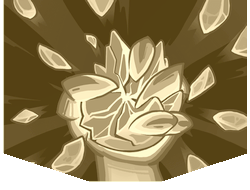
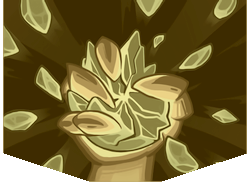
Two new Yin / Yang cards, Light of Your Life buff, new card art edits.
With the Syncretics being pushed to uncommon, there's a renewed need for
Yin and Yang sources at Common. Said rarity's also rather light on deck
manipulation, despite it being a core theme for the Administrix,
so here are two experimental cards fulfilling both needs:

 * Funerary Rites: A 1(0)-cost common skill.
   Discard 1 card. Put a card from your Discard Pile on top of your Draw Pile.
   Gain 4 Yang.

 * Trick of the Light: A 1 cost common attack.
   Deal 8 damage. Discard the top Plot card in your draw pile.
   Gain 4 Yin. Exhaust (not).

To match the above new cycle and let it not mirror Shadow Play as much,
Light of Your Life no longer exhausts at base and the upgrade now
makes it cost 0, which should make it far more pickable without being
too overbearing. The Common base might be a bit strong even for a card set
meant to counter Ascension 17+ and the Heart, though...

Card art edits updates here: Reach to Heaven, Unstable Vigor, Mix of Mercury.

diff --git a/src/main/java/administrix/cards/common/skill/FuneraryRites.java b/src/main/java/administrix/cards/common/skill/FuneraryRites.java
@@ -1,59 +1,57 @@
 package administrix.cards.common.skill;
 
+import administrix.AdministrixMod;
 import administrix.actions.TransposeAction;
 import administrix.cards.AbstractAdministrixCard;
-import basemod.abstracts.CustomCard;
+import administrix.patches.AbstractCardEnum;
+import administrix.powers.YangPower;
+import administrix.powers.YinPower;
 import com.badlogic.gdx.graphics.Color;
 import com.megacrit.cardcrawl.actions.animations.VFXAction;
 import com.megacrit.cardcrawl.actions.common.ApplyPowerAction;
+import com.megacrit.cardcrawl.actions.common.DiscardAction;
 import com.megacrit.cardcrawl.actions.common.DrawCardAction;
+import com.megacrit.cardcrawl.actions.unique.DiscardPileToTopOfDeckAction;
 import com.megacrit.cardcrawl.cards.AbstractCard;
 import com.megacrit.cardcrawl.characters.AbstractPlayer;
 import com.megacrit.cardcrawl.core.CardCrawlGame;
 import com.megacrit.cardcrawl.dungeons.AbstractDungeon;
 import com.megacrit.cardcrawl.localization.CardStrings;
 import com.megacrit.cardcrawl.monsters.AbstractMonster;
-import administrix.AdministrixMod;
-import administrix.patches.AbstractCardEnum;
-import administrix.powers.YangPower;
 import com.megacrit.cardcrawl.vfx.BorderLongFlashEffect;
 
-public class LightOfYourLife extends AbstractAdministrixCard
+public class FuneraryRites extends AbstractAdministrixCard
 {
-    public static final String ID = "AdministrixMod:LightOfYourLife";
-    public static final String NAME = "Light of Your Life";
+    public static final String ID = "AdministrixMod:FuneraryRites";
+    public static final String NAME = "Funerary Rites";
     public static final CardStrings CARD_STRINGS = CardCrawlGame.languagePack.getCardStrings(ID);
     private static final int COST = 1;
-    private static final int UPGRADE_COST = 1;
-    private static final int TRANSPOSE_AMOUNT = 0;
-    private static final int DRAW_AMOUNT = 1;
-    private static final int YANG_AMOUNT = 4;
+    private static final int UPGRADE_COST = 0;
+    private static final int DISCARD_AMOUNT = 1;
+    private static final int YIN_AMOUNT = 4;
     private static final CardRarity rarity = CardRarity.COMMON;
     private static final CardTarget target = CardTarget.SELF;
 
-    public LightOfYourLife() {
-        super(ID, CARD_STRINGS.NAME, AdministrixMod.LIGHT_OF_YOUR_LIFE, COST,
+    public FuneraryRites() {
+        super(ID, CARD_STRINGS.NAME, AdministrixMod.FUENRARY_RITES, COST,
                 CARD_STRINGS.DESCRIPTION,
                 CardType.SKILL, AbstractCardEnum.LichGold,
                 rarity, target);
-        this.magicNumber = this.baseMagicNumber = DRAW_AMOUNT;
+        this.magicNumber = this.baseMagicNumber = YIN_AMOUNT;
     }
 
     @Override
     public void use(AbstractPlayer p, AbstractMonster m)
     {
-        if (!AbstractDungeon.getMonsters().areMonstersBasicallyDead()) {
-            AbstractDungeon.actionManager.addToBottom(new VFXAction(AbstractDungeon.player, new BorderLongFlashEffect(Color.GOLD), 0.8F));
-            AbstractDungeon.actionManager.addToBottom(new TransposeAction(TRANSPOSE_AMOUNT));
-        }
-        AbstractDungeon.actionManager.addToBottom(new DrawCardAction(p, this.magicNumber));
-        AbstractDungeon.actionManager.addToBottom(new ApplyPowerAction(p, p, new YangPower(p, YANG_AMOUNT), YANG_AMOUNT));
+        AbstractDungeon.actionManager.addToBottom(new DiscardAction(p, p, DISCARD_AMOUNT, false));
+        AbstractDungeon.actionManager.addToBottom(new DiscardPileToTopOfDeckAction(p));
+        AbstractDungeon.actionManager.addToBottom(new ApplyPowerAction(AbstractDungeon.player, AbstractDungeon.player, new YinPower(AbstractDungeon.player, this.magicNumber), this.magicNumber));
     }
 
 
     @Override
     public AbstractCard makeCopy() {
-        return new LightOfYourLife();
+        return new FuneraryRites();
     }
 
     @Override

diff --git a/src/main/java/administrix/cards/common/attack/TrickOfTheLight.java b/src/main/java/administrix/cards/common/attack/TrickOfTheLight.java
@@ -1,0 +1,86 @@
+package administrix.cards.common.attack;
+
+import administrix.AdministrixMod;
+import administrix.cards.AbstractAdministrixCard;
+import administrix.patches.AbstractCardEnum;
+import administrix.powers.YangPower;
+import com.megacrit.cardcrawl.actions.AbstractGameAction;
+import com.megacrit.cardcrawl.actions.GameActionManager;
+import com.megacrit.cardcrawl.actions.common.ApplyPowerAction;
+import com.megacrit.cardcrawl.actions.common.DamageAction;
+import com.megacrit.cardcrawl.actions.common.DiscardAction;
+import com.megacrit.cardcrawl.actions.common.DrawCardAction;
+import com.megacrit.cardcrawl.actions.utility.WaitAction;
+import com.megacrit.cardcrawl.cards.AbstractCard;
+import com.megacrit.cardcrawl.cards.DamageInfo;
+import com.megacrit.cardcrawl.characters.AbstractPlayer;
+import com.megacrit.cardcrawl.core.CardCrawlGame;
+import com.megacrit.cardcrawl.dungeons.AbstractDungeon;
+import com.megacrit.cardcrawl.localization.CardStrings;
+import com.megacrit.cardcrawl.monsters.AbstractMonster;
+
+import static administrix.patches.CardTagsEnum.PLOT;
+
+public class TrickOfTheLight extends AbstractAdministrixCard
+{
+    public static final String ID = "AdministrixMod:TrickOfTheLight";
+    public static final String NAME = "Trick of the Light";
+    public static final CardStrings CARD_STRINGS = CardCrawlGame.languagePack.getCardStrings(ID);
+    public static final String UPGRADE_DESCRIPTION = CARD_STRINGS.UPGRADE_DESCRIPTION;
+    private static final CardRarity rarity = CardRarity.COMMON;
+    private static final CardTarget target = CardTarget.SELF_AND_ENEMY;
+    private static final int COST = 1;
+    private static final int ATTACK_DMG = 8;
+    private static final int YANG_AMOUNT = 4;
+
+    public TrickOfTheLight() {
+        super(ID, CARD_STRINGS.NAME, AdministrixMod.TRICK_OF_THE_LIGHT, COST,
+                CARD_STRINGS.DESCRIPTION,
+                CardType.ATTACK, AbstractCardEnum.LichGold,
+                rarity, target);
+        this.baseDamage = this.damage = ATTACK_DMG;
+        this.baseMagicNumber = this.magicNumber = YANG_AMOUNT;
+        this.exhaust = true;
+    }
+
+    @Override
+    public void use(AbstractPlayer p, AbstractMonster m)
+    {
+        AbstractDungeon.actionManager.addToBottom(new DamageAction(m,
+                new DamageInfo(p, this.damage, this.damageTypeForTurn),
+                AbstractGameAction.AttackEffect.BLUNT_LIGHT));
+
+        if (!AbstractDungeon.player.drawPile.group.isEmpty()) {
+            for (int i = p.drawPile.group.size() - 1; i >= 0; --i) {
+                AbstractCard c = p.drawPile.group.get(i);
+
+                if (c.hasTag(PLOT)) {
+                    p.drawPile.moveToDiscardPile(c);
+                    p.drawPile.removeCard(c);
+                    c.triggerOnManualDiscard();
+                    GameActionManager.incrementDiscard(false);
+                    AbstractDungeon.actionManager.addToBottom(new WaitAction(0.4F));
+                    break;
+                }
+            }
+        }
+        AbstractDungeon.actionManager.addToBottom(new ApplyPowerAction(AbstractDungeon.player, AbstractDungeon.player, new YangPower(AbstractDungeon.player, this.magicNumber), this.magicNumber));
+    }
+
+
+    @Override
+    public AbstractCard makeCopy() {
+        return new TrickOfTheLight();
+    }
+
+    @Override
+    public void upgrade() {
+        if (!this.upgraded)
+        {
+            this.upgradeName();
+            this.exhaust = false;
+            this.rawDescription = UPGRADE_DESCRIPTION;
+            initializeDescription();
+        }
+    }
+}

diff --git a/src/main/java/administrix/AdministrixMod.java b/src/main/java/administrix/AdministrixMod.java
@@ -108,9 +108,11 @@ public class AdministrixMod implements PostInitializeSubscriber,
     public static final String REBUKE_DESIRES = CARD_IMG_PATH + "Rebuke Desires.png";
     public static final String REGENT_EDICT = CARD_IMG_PATH + "Regent's Edict.png";
     public static final String SHADOW_PLAY = CARD_IMG_PATH + "Shadow Play.png";
+    public static final String TRICK_OF_THE_LIGHT = CARD_IMG_PATH + "Trick of the Light.png";
     public static final String TRAINEE_JIANGSHI = CARD_IMG_PATH + "Trainee Jiangshi.png";
 
     public static final String CENTURIES_ASCENT = CARD_IMG_PATH + "Centuries Ascent.png";
+    public static final String FUENRARY_RITES = CARD_IMG_PATH + "Funerary Rites.png";
     public static final String IMMORTAL_PURITY = CARD_IMG_PATH + "Immortal Purity.png";
     public static final String LIGHT_OF_YOUR_LIFE = CARD_IMG_PATH + "Light Of Your Life.png";
     public static final String SEAL_AWAY = CARD_IMG_PATH + "Seal Away.png";
@@ -178,7 +180,6 @@ public class AdministrixMod implements PostInitializeSubscriber,
 
     // Powers
     public static final String POWER_IMG_PATH = IMG_PATH + "powers/";
-    public static final String AFFINITY_POWER = POWER_IMG_PATH + "Affinity.png";
     public static TextureAtlas ADMIN_POWERS_ATLAS;
 
     // Relics
@@ -298,10 +299,12 @@ public class AdministrixMod implements PostInitializeSubscriber,
         BaseMod.addCard(new RebukeDesires());
         BaseMod.addCard(new RegentEdict());
         BaseMod.addCard(new ShadowPlay());
+        BaseMod.addCard(new TrickOfTheLight());
         // BaseMod.addCard(new TraineeJiangshi());
 
         // Common Skills.
         BaseMod.addCard(new CenturiesAscent());
+        BaseMod.addCard(new FuneraryRites());
         BaseMod.addCard(new ImmortalPurity());
         BaseMod.addCard(new LightOfYourLife());
         BaseMod.addCard(new SealAway());

diff --git a/src/main/java/administrix/cards/uncommon/skill/DreamsMausoleum.java b/src/main/java/administrix/cards/uncommon/skill/DreamsMausoleum.java
@@ -16,6 +16,7 @@ import administrix.AdministrixMod;
 import administrix.patches.AbstractCardEnum;
 
 import static administrix.AdministrixMod.*;
+import static administrix.patches.CardTagsEnum.PLOT;
 
 // Ugh, this one's a mess of commented-out prior drafts.
 // Plot to reduce this card's cost this turn.
@@ -38,6 +39,7 @@ public class DreamsMausoleum extends AbstractAdministrixCard
                 CARD_STRINGS.DESCRIPTION,
                 CardType.SKILL, AbstractCardEnum.LichGold,
                 rarity, target);
+        this.tags.add(PLOT);
         setOrbTexture(ENERGY_ORB_LICH_GOLD_PLOT, ENERGY_ORB_LICH_GOLD_PORTRAIT);
         setBackgroundTexture(SKILL_LICH_GOLD_PLOT, SKILL_LICH_GOLD_PLOT_PORTRAIT);
         this.baseBlock = this.block = BLOCK_AMOUNT;

diff --git a/src/main/java/administrix/cards/common/skill/CenturiesAscent.java b/src/main/java/administrix/cards/common/skill/CenturiesAscent.java
@@ -18,6 +18,7 @@ import com.megacrit.cardcrawl.localization.CardStrings;
 import com.megacrit.cardcrawl.monsters.AbstractMonster;
 
 import static administrix.AdministrixMod.*;
+import static administrix.patches.CardTagsEnum.PLOT;
 
 public class CenturiesAscent extends AbstractAdministrixCard
 {
@@ -38,6 +39,7 @@ public class CenturiesAscent extends AbstractAdministrixCard
                 COST, CARD_STRINGS.DESCRIPTION,
                 CardType.SKILL, AbstractCardEnum.LichGold,
                 rarity, target);
+        this.tags.add(PLOT);
         setOrbTexture(ENERGY_ORB_LICH_GOLD_PLOT, ENERGY_ORB_LICH_GOLD_PORTRAIT);
         setBackgroundTexture(SKILL_LICH_GOLD_PLOT, SKILL_LICH_GOLD_PLOT_PORTRAIT);
         this.baseBlock = this.block = BLOCK_AMOUNT;

diff --git a/src/main/java/administrix/cards/common/attack/PassageOfAges.java b/src/main/java/administrix/cards/common/attack/PassageOfAges.java
@@ -20,6 +20,7 @@ import com.megacrit.cardcrawl.localization.CardStrings;
 import com.megacrit.cardcrawl.monsters.AbstractMonster;
 
 import static administrix.AdministrixMod.*;
+import static administrix.patches.CardTagsEnum.PLOT;
 
 public class PassageOfAges extends AbstractAdministrixCard
 {
@@ -40,6 +41,7 @@ public class PassageOfAges extends AbstractAdministrixCard
                 COST, CARD_STRINGS.DESCRIPTION,
                 CardType.ATTACK, AbstractCardEnum.LichGold,
                 rarity, target);
+        this.tags.add(PLOT);
         setOrbTexture(ENERGY_ORB_LICH_GOLD_PLOT, ENERGY_ORB_LICH_GOLD_PORTRAIT);
         setBackgroundTexture(ATTACK_LICH_GOLD_PLOT, ATTACK_LICH_GOLD_PLOT_PORTRAIT);
         this.baseDamage = this.damage = ATTACK_DMG;

diff --git a/src/main/java/administrix/cards/rare/power/ImmortalClarity.java b/src/main/java/administrix/cards/rare/power/ImmortalClarity.java
@@ -16,6 +16,7 @@ import administrix.actions.ImmortalUpgradeAction;
 import administrix.patches.AbstractCardEnum;
 
 import static administrix.AdministrixMod.*;
+import static administrix.patches.CardTagsEnum.PLOT;
 
 public class ImmortalClarity extends AbstractAdministrixCard
 {
@@ -33,6 +34,7 @@ public class ImmortalClarity extends AbstractAdministrixCard
                 CARD_STRINGS.DESCRIPTION,
                 type, AbstractCardEnum.LichGold,
                 rarity, CardTarget.SELF);
+        this.tags.add(PLOT);
         setOrbTexture(ENERGY_ORB_LICH_GOLD_PLOT, ENERGY_ORB_LICH_GOLD_PORTRAIT);
         setBackgroundTexture(POWER_LICH_GOLD_PLOT, POWER_LICH_GOLD_PLOT_PORTRAIT);
         this.baseMagicNumber = this.magicNumber = CLARITY_AMOUNT;

diff --git a/src/main/java/administrix/cards/uncommon/skill/BishamonBlessing.java b/src/main/java/administrix/cards/uncommon/skill/BishamonBlessing.java
@@ -17,6 +17,7 @@ import administrix.powers.YangPower;
 import com.megacrit.cardcrawl.powers.WeakPower;
 
 import static administrix.AdministrixMod.*;
+import static administrix.patches.CardTagsEnum.PLOT;
 
 public class BishamonBlessing extends AbstractAdministrixCard
 {
@@ -37,6 +38,7 @@ public class BishamonBlessing extends AbstractAdministrixCard
                 CARD_STRINGS.DESCRIPTION,
                 CardType.SKILL, AbstractCardEnum.LichGold,
                 rarity, target);
+        this.tags.add(PLOT);
         setBannerTexture(UNCOMMON_BANNER_LICH_GOLD_PLOT, UNCOMMON_BANNER_PORTRAIT);
         setBackgroundTexture(SKILL_LICH_GOLD_PLOT, SKILL_LICH_GOLD_PLOT_PORTRAIT);
         this.baseMagicNumber = this.magicNumber = YANG_AMOUNT;

diff --git a/src/main/java/administrix/cards/common/attack/ImmortalGrace.java b/src/main/java/administrix/cards/common/attack/ImmortalGrace.java
@@ -17,6 +17,7 @@ import administrix.actions.ImmortalUpgradeAction;
 import administrix.patches.AbstractCardEnum;
 
 import static administrix.AdministrixMod.*;
+import static administrix.patches.CardTagsEnum.PLOT;
 
 public class ImmortalGrace extends AbstractAdministrixCard
 {
@@ -36,6 +37,7 @@ public class ImmortalGrace extends AbstractAdministrixCard
                 COST, CARD_STRINGS.DESCRIPTION,
                 CardType.ATTACK, AbstractCardEnum.LichGold,
                 rarity, target);
+        this.tags.add(PLOT);
         setOrbTexture(ENERGY_ORB_LICH_GOLD_PLOT, ENERGY_ORB_LICH_GOLD_PORTRAIT);
         setBackgroundTexture(ATTACK_LICH_GOLD_PLOT, ATTACK_LICH_GOLD_PLOT_PORTRAIT);
         this.baseDamage = this.damage = ATTACK_DMG;

diff --git a/src/main/java/administrix/cards/common/skill/ImmortalPurity.java b/src/main/java/administrix/cards/common/skill/ImmortalPurity.java
@@ -15,6 +15,7 @@ import administrix.actions.ImmortalUpgradeAction;
 import administrix.patches.AbstractCardEnum;
 
 import static administrix.AdministrixMod.*;
+import static administrix.patches.CardTagsEnum.PLOT;
 
 public class ImmortalPurity extends AbstractAdministrixCard
 {
@@ -34,6 +35,7 @@ public class ImmortalPurity extends AbstractAdministrixCard
                 COST, CARD_STRINGS.DESCRIPTION,
                 CardType.SKILL, AbstractCardEnum.LichGold,
                 rarity, target);
+        this.tags.add(PLOT);
         setOrbTexture(ENERGY_ORB_LICH_GOLD_PLOT, ENERGY_ORB_LICH_GOLD_PORTRAIT);
         setBackgroundTexture(SKILL_LICH_GOLD_PLOT, SKILL_LICH_GOLD_PLOT_PORTRAIT);
         this.baseBlock = this.block = BLOCK_AMOUNT;

diff --git a/src/main/java/administrix/cards/uncommon/skill/GuanyinBlessing.java b/src/main/java/administrix/cards/uncommon/skill/GuanyinBlessing.java
@@ -18,6 +18,7 @@ import administrix.patches.AbstractCardEnum;
 import administrix.powers.YinPower;
 
 import static administrix.AdministrixMod.*;
+import static administrix.patches.CardTagsEnum.PLOT;
 
 public class GuanyinBlessing extends AbstractAdministrixCard
 {
@@ -38,6 +39,7 @@ public class GuanyinBlessing extends AbstractAdministrixCard
                 CARD_STRINGS.DESCRIPTION,
                 CardType.SKILL, AbstractCardEnum.LichGold,
                 rarity, target);
+        this.tags.add(PLOT);
         setBannerTexture(UNCOMMON_BANNER_LICH_GOLD_PLOT, UNCOMMON_BANNER_PORTRAIT);
         setBackgroundTexture(SKILL_LICH_GOLD_PLOT, SKILL_LICH_GOLD_PLOT_PORTRAIT);
         this.baseMagicNumber = this.magicNumber = YIN_AMOUNT;

diff --git a/src/main/java/administrix/cards/uncommon/skill/ArmillarySphere.java b/src/main/java/administrix/cards/uncommon/skill/ArmillarySphere.java
@@ -15,6 +15,7 @@ import administrix.AdministrixMod;
 import administrix.patches.AbstractCardEnum;
 
 import static administrix.AdministrixMod.*;
+import static administrix.patches.CardTagsEnum.PLOT;
 
 public class ArmillarySphere extends AbstractAdministrixCard
 {
@@ -35,6 +36,7 @@ public class ArmillarySphere extends AbstractAdministrixCard
                 COST, CARD_STRINGS.DESCRIPTION,
                 CardType.SKILL, AbstractCardEnum.LichGold,
                 rarity, target);
+        this.tags.add(PLOT);
         setOrbTexture(ENERGY_ORB_LICH_GOLD_PLOT, ENERGY_ORB_LICH_GOLD_PORTRAIT);
         setBackgroundTexture(SKILL_LICH_GOLD_PLOT, SKILL_LICH_GOLD_PLOT_PORTRAIT);
         this.baseBlock = this.block = BLOCK_AMOUNT;
